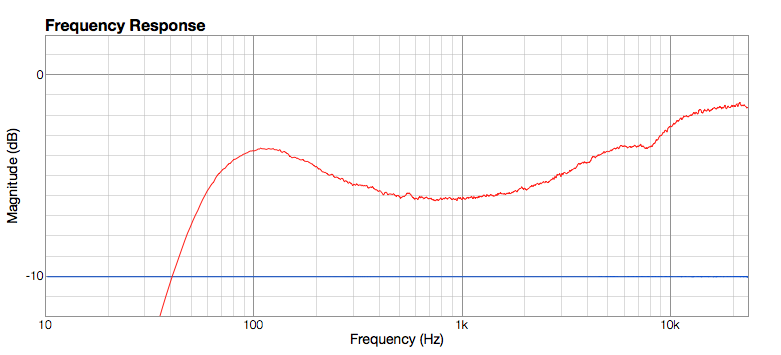
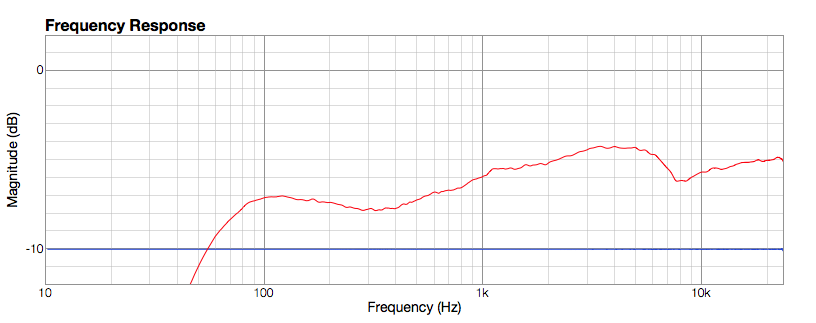
LF63 news, music 의 스펙이 변경되었습니다.

diff --git a/WebOS/LF63/2_Sound_Mode/1_News/News.tex b/WebOS/LF63/2_Sound_Mode/1_News/News.tex
@@ -10,10 +10,10 @@ Audio EQ & \color{black}{Off} & Instart &
 \begin{itemize}
 \item Frequency Response Check
 	\begin{itemize}
-	\item 80Hz에서 ref 신호와의 레벨 차이값이 2.5±1dBr 이내
-	\item 1.3Hz에서 ref 신호와의 레벨 차이값이 6.5±1dBr 이내
-	\item 3kHz에서 ref 신호와의 레벨 차이값이 6.5±1dBr 이내
-	\item 12kHz에서 ref 신호와의 레벨 차이값이 2.5±1dBr 이내
+	\item 80Hz에서 ref 신호와의 레벨 차이값이 0±1dBr 이내
+	\item 1.3kHz에서 ref 신호와의 레벨 차이값이 4±1dBr 이내
+	\item 3kHz에서 ref 신호와의 레벨 차이값이 4±1dBr 이내
+	\item 11kHz에서 ref 신호와의 레벨 차이값이 0±1dBr 이내
 	\end{itemize}
 \end{itemize}
 } \\

diff --git a/WebOS/LF63/2_Sound_Mode/2_Music/Music.tex b/WebOS/LF63/2_Sound_Mode/2_Music/Music.tex
@@ -11,10 +11,10 @@ Audio EQ & \color{black}{Off} & Instart &
 \item Frequency Response Check
 	\begin{itemize}
 	\item 20Hz에서 ref 신호와의 레벨 차이값이 -10.0dBr 이하
-	\item 100Hz에서 ref 신호와의 레벨 차이값이 6.0±1dBr 이내
+	\item 100Hz에서 ref 신호와의 레벨 차이값이 3.0±1dBr 이내
 	\item 1kHz에서 ref 신호와의 레벨 차이값이 4.0±1dBr 이내
-	\item 5kHz에서 ref 신호와의 레벨 차이값이 6.0±1dBr 이내
-	\item 19kHz에서 ref 신호와의 레벨 차이값이 8.5±1dBr 이내
+	\item 5kHz에서 ref 신호와의 레벨 차이값이 5.5±1dBr 이내
+	\item 9kHz에서 ref 신호와의 레벨 차이값이 4±1dBr 이내
 	\end{itemize}
 \end{itemize}
 } \\
